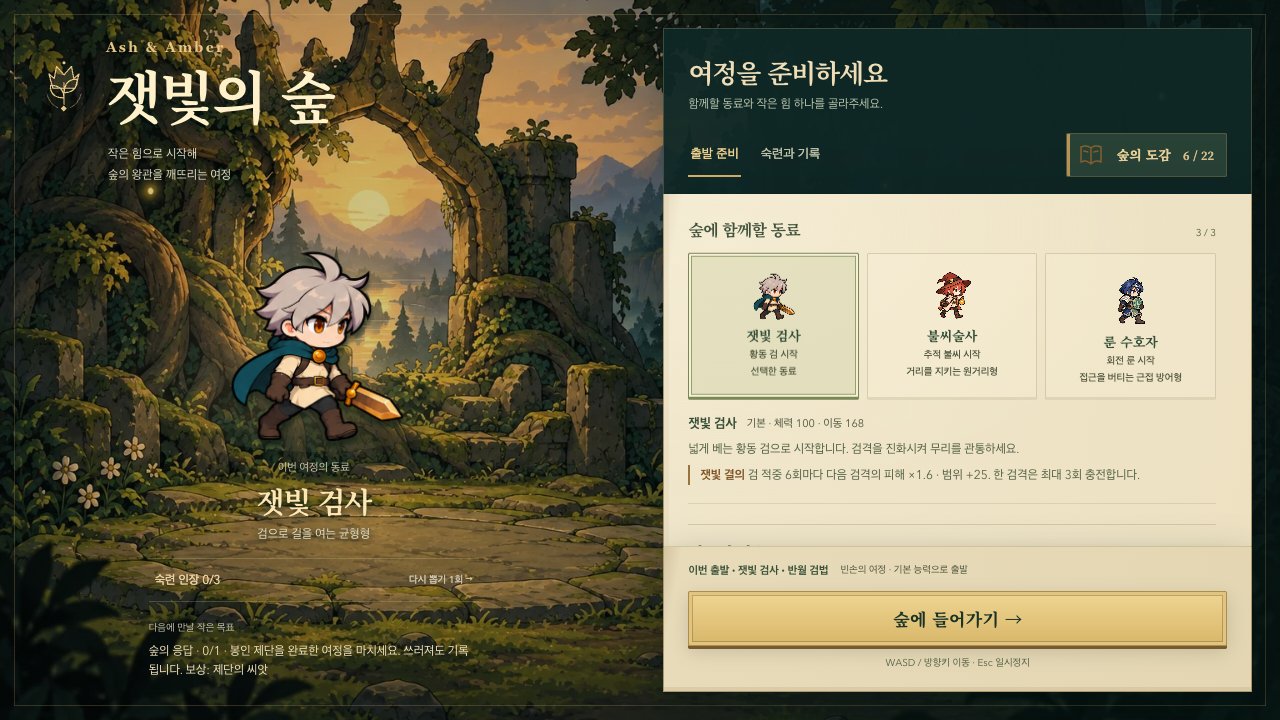
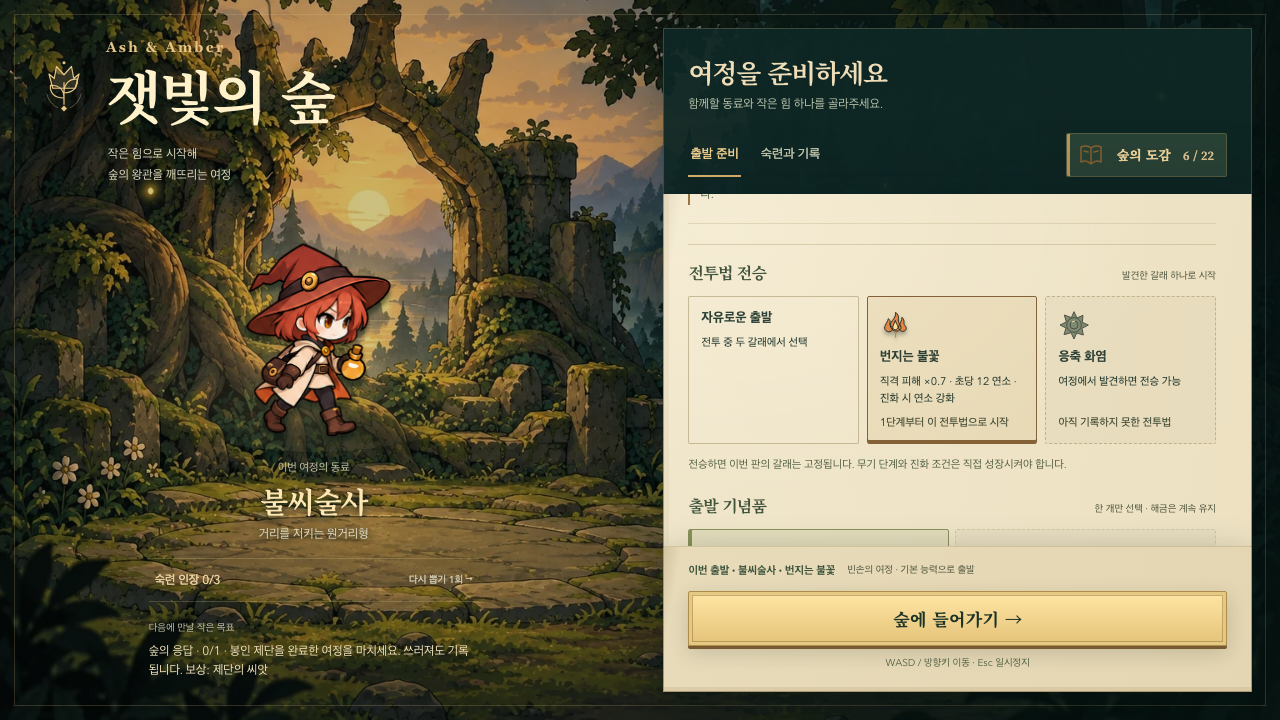
Record combat rhythm release and public verification [skip ci]

diff --git a/docs/design/survivor-restart/27-CHARACTER-RHYTHM-AND-LEGACY.md b/docs/design/survivor-restart/27-CHARACTER-RHYTHM-AND-LEGACY.md
@@ -12,7 +12,7 @@
 - [x] 로비 설명·전승 카드·전투 HUD·발동 표현·결과 기록을 실제 규칙과 연결한다. 화면 전체 스크롤 없이 키보드·터치·작은 화면에서 조작할 수 있어야 한다.
 - [x] 저장 호환, 중복 적용 방지, 일시정지, 피해/보호막, 경고-판정 일치, 개체 상한을 검증한다.
 - [x] 캐릭터/전문화/난이도 경로 시뮬레이션 및 실제 시간 브라우저 플레이를 실행하고 실패도 기록한다.
-- [ ] README/개발 문서, main 커밋/푸시, Pages 배포와 공개 화면을 확인한다.
+- [x] README/개발 문서, main 커밋/푸시, Pages 배포와 공개 화면을 확인한다.
 
 ## 플레이 기준
 
@@ -40,13 +40,13 @@
 
 ## 로컬 검증 결과
 
-- 코어 136개 통과. 기존 브라우저 전체 123개 통과 후 추가된 목표/전승 충돌을 포함한 4개 흐름도 별도로 통과했다. 최종 CI 대상은 124개다.
+- 코어 136개 통과. 기존 브라우저 전체 123개 통과 후 추가된 목표/전승 충돌을 포함한 4개 흐름도 별도로 통과했다. 최종 커밋의 CI에서도 코어 136개와 브라우저 124개가 모두 통과했다.
 - 수정한 정예 경고·터치 HUD·전승의 집중 검사 11개 통과. WebKit 11개, Firefox 11개도 통과했다.
 - 정상 규칙 150경로: 기본 21/30, 목표 21/30, 숙련 20/30, 짙은 안개 21/30, 전승 21/30 군주 격파. 모든 동료/모드에서 승리 경로가 있고 숙련 인장 3개를 획득할 수 있다. 전승은 전투법을 앞당기는 선택이며 승리 보장이나 모든 갈래의 무조건적인 상위 호환으로 설계하지 않았다.
 - 실제 시간 시드 42 검사: 검사 281.18초 승리(고유 능력 72회), 불씨술사 270.87초 승리, 수호자 300초 생존(보호막 약 128 피해 흡수). 모두 정예 3종·선택 사건 2개·유물 2개, 정확히 한 번 저장, 새 판 초기화를 검증했다. 오류 0개.
 - [검증 데이터](./rhythm-verification-2026-10-07.json)에 실패 경로와 최종 결과를 함께 보존한다. 자동 검사 환경의 프레임 시간은 실제 휴대폰 성능 보장이 아니다.
 
-![전승이 열린 검사의 출발 준비](./images/rhythm-camp-1280.png)
+![공개 게임의 전승 선택 화면](./images/rhythm-camp-1280.png)
 
 위 화면은 전승 선택을 검증하기 위해 발견 기록을 넣은 독립 브라우저를 촬영했다.
 
@@ -61,3 +61,11 @@
 5. 정예의 공격을 보고 피했는데 맞는 느낌이 없는지, 처치 후 경험치와 잠깐의 여유가 보상으로 느껴지는가.
 
 사람의 재미·난이도 체감·재방문과 실제 저사양 휴대폰 성능은 별도 플레이 피드백으로 확인한다. 현재 개발을 모든 콘텐츠와 모든 기기의 최종 완성이라고 부르지 않는다.
+
+
+## 공개 배포 확인
+
+- 런타임 커밋 `80e8cc2349510d85dfad2bfa7384b38134853ad7`을 main에 푸시했다. [GitHub Actions 실행](https://github.com/Seung-Won-Yu/rune-drift-survivors/actions/runs/37596399494)이 코어 136개, 새 게임 브라우저 124개, 기존 3D 브라우저 86개, Pages production 검증을 통과한 뒤 배포에 성공했다.
+- 공개 JS/CSS와 한글 폰트가 로컬 검증 빌드와 SHA-256 기준으로 일치한다. QA 전역 API는 공개 빌드에 없다.
+- 공개 주소 1280×720, 390×844, 740×360에서 미발견 잠금, 발견 전승 선택/저장, 도감에서 동료와 전승 준비, 실제 이동에 따른 능력 충전, 일시정지 동결을 확인했다. 페이지 전체 가로·세로 넘침은 0px, 시작 버튼은 모든 화면 안에 유지되었다. 브라우저 오류 0개.
+- 위 전승 이미지는 공개 게임을 독립 검증 프로필로 촬영했다. 실제 사용자 프로필에서의 해금 조건은 그대로 적용된다.

diff --git a/README.md b/README.md
@@ -47,6 +47,8 @@ The first chapter passed its survivor checks and 86 legacy browser regressions, 
 
 The illustrated sanctuary release (`8594996`) passed 127 core tests, 120 survivor browser scenarios, 86 legacy browser regressions and the Pages production check in CI, then deployed successfully. The public JS/CSS, two environment images and Korean font match the verified build. WebKit and Firefox each passed 15 focused UI flows; three real-time normal-rule diagnostic runs also verified results and restart. See the [sanctuary design record](./docs/design/survivor-restart/26-ILLUSTRATED-SANCTUARY.md). Human playtests and physical mobile performance remain separate evaluation steps; the existing character sheets retain their four-pose movement and action art.
 
+The companion-rhythm and inheritance release (`80e8cc2`) passed 136 core tests, 124 survivor browser scenarios, 86 legacy browser regressions and the Pages production check in CI, then deployed successfully. Public assets match the verified build, and three public viewports verified saved inheritance, codex preparation, movement charging and pause. A 150-route diagnostic and three full real-time runs are recorded with the initial failed route and its follow-up corrections in the [character rhythm verification](./docs/design/survivor-restart/27-CHARACTER-RHYTHM-AND-LEGACY.md).
+
 ## Existing Rune Drift prototype
 
 A five-minute browser survival roguelite built with **React, Three.js, React Three Fiber, and Vite**. Guide a hooded Rune Warden through a ruined forest, build an automatic-attack loadout, and connect four seals before the final rift.
